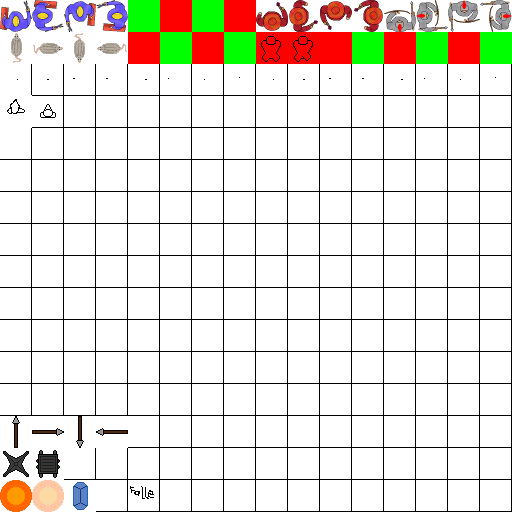
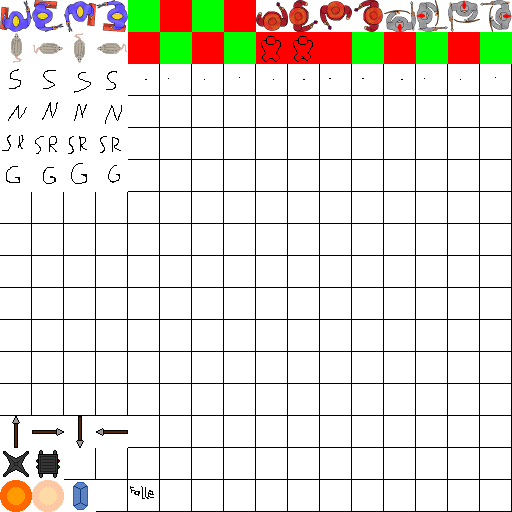
added waves

diff --git a/Game++ Tile/src/de/nerogar/game/Map.java b/Game++ Tile/src/de/nerogar/game/Map.java
@@ -11,7 +11,6 @@ import org.lwjgl.BufferUtils;
 import org.lwjgl.opengl.Display;
 
 import de.nerogar.game.entity.*;
-import de.nerogar.game.entity.enemy.*;
 import de.nerogar.game.entity.playerClass.PlayerClass;
 import de.nerogar.game.graphics.*;
 import de.nerogar.game.graphics.gui.GuiBank;
@@ -43,7 +42,7 @@ public class Map {
 	public static final Tile WALL_CROSS = new Tile(18, true);
 
 	public static final Tile[] TILES = new Tile[] { FLOOR, ROCK, TREE, TORCH, CHEST, OPEN_CHEST, DOOR, DOOR_OPEN, //
-			WALL_V, WALL_H, WALL_TR, WALL_TU, WALL_TD, WALL_TL, WALL_RU, WALL_RD, WALL_LU, WALL_LD, WALL_CROSS };
+	WALL_V, WALL_H, WALL_TR, WALL_TU, WALL_TD, WALL_TL, WALL_RU, WALL_RD, WALL_LU, WALL_LD, WALL_CROSS };
 
 	//texture
 	public static final float TILE_RENDER_SIZE = 64f;
@@ -57,10 +56,12 @@ public class Map {
 	private EntityPlayer player;
 	private int playerID = -1;
 	private Vector spawnLocation;
+	private Vector[] enemySpawnLocations;
 	private HashMap<Integer, Entity> entities;
 	private ArrayList<Entity> newEntities;
 	private boolean updating;
 	private float playTime;
+	private Wave wave;
 	private ArrayList<Light> lights;
 	private final int MAX_LIGHTS = 100;
 	private FloatBuffer lightBufferX;
@@ -90,6 +91,7 @@ public class Map {
 		initShader();
 		entities = new HashMap<Integer, Entity>();
 		newEntities = new ArrayList<Entity>();
+		wave = new Wave(this);
 	}
 
 	private void initShader() {
@@ -164,6 +166,8 @@ public class Map {
 				entity.update(time);
 			}
 			updating = false;
+
+			wave.update(time);
 
 			for (Client client : Game.game.server.getClients()) {
 				ArrayList<Packet> packets = client.getData(Packet.WORLD_CHANNEL);
@@ -374,17 +378,18 @@ public class Map {
 		return null;
 	}
 
-	public void load(int[] tileIDs, int size, Vector spawnLocation) {
+	public void load(int[] tileIDs, int size, Vector spawnLocation, Vector[] enemySpawnLocations) {
 		this.tileIDs = tileIDs;
 		this.size = size;
 		this.spawnLocation = spawnLocation;
+		this.enemySpawnLocations = enemySpawnLocations;
 
 		Pathfinder.init(this);
 
 		for (int i = 0; i < 10; i++) {
 			//spawnEntity(new EnemySkeleton(this, new Vector((float) (19f + Math.random() * 15f), (float) (19f + Math.random() * 15f))));
 			//spawnEntity(new EnemyRat(this, new Vector((float) (19f + Math.random() * 15f), (float) (19f + Math.random() * 15f))));
-			spawnEntity(new EnemyNekro(this, new Vector((float) (19f + Math.random() * 15f), (float) (19f + Math.random() * 15f))));
+			//spawnEntity(new EnemyNekro(this, new Vector((float) (19f + Math.random() * 15f), (float) (19f + Math.random() * 15f))));
 			//spawnEntity(new EnemyBigSkeleton(this, new Vector((float) (19f + Math.random() * 15f), (float) (19f + Math.random() * 15f))));
 		}
 	}
@@ -469,6 +474,10 @@ public class Map {
 
 	public Vector getSpawnLocation() {
 		return spawnLocation.clone();
+	}
+
+	public Vector[] getEnemySpawnLocations() {
+		return enemySpawnLocations;
 	}
 
 	public EntityPlayer getPlayer() {

diff --git a/Game++ Tile/src/de/nerogar/game/MapLoader.java b/Game++ Tile/src/de/nerogar/game/MapLoader.java
@@ -3,6 +3,7 @@ package de.nerogar.game;
 import java.awt.image.BufferedImage;
 import java.io.File;
 import java.io.IOException;
+import java.util.ArrayList;
 
 import javax.imageio.ImageIO;
 
@@ -76,6 +77,10 @@ public class MapLoader {
 		return (color & 0xffffff) == 0xf00000;
 	}
 
+	private static boolean isEnemySpawn(int color) {
+		return (color & 0xffffff) == 0xffff00;
+	}
+
 	public static Map loadMap(int worldType, String filename) {
 		BufferedImage image;
 		int[] pixels;
@@ -83,6 +88,7 @@ public class MapLoader {
 		int height;
 
 		Vector playerPos = new Vector();
+		ArrayList<Vector> enemySpawnLocationsList = new ArrayList<Vector>();
 
 		try {
 			image = ImageIO.read(new File("res/" + filename));
@@ -112,10 +118,15 @@ public class MapLoader {
 				playerPos.setX(i % mapSize).setY(i / mapSize);
 			} else if (isBone(pixels[i])) {
 				map.spawnEntity(new EntityBone(map, new Vector(i % mapSize, i / mapSize)));
+			} else if (isEnemySpawn(pixels[i])) {
+				enemySpawnLocationsList.add(new Vector(i % mapSize, i / mapSize));
 			}
 		}
 
-		map.load(tileIDs, mapSize, playerPos);
+		Vector[] enemySpawnLocations = new Vector[enemySpawnLocationsList.size()];
+		enemySpawnLocationsList.toArray(enemySpawnLocations);
+
+		map.load(tileIDs, mapSize, playerPos, enemySpawnLocations);
 		return map;
 	}
 }

diff --git a/Game++ Tile/src/de/nerogar/game/Wave.java b/Game++ Tile/src/de/nerogar/game/Wave.java
@@ -1,0 +1,50 @@
+package de.nerogar.game;
+
+import java.util.ArrayList;
+
+import de.nerogar.game.entity.Entity;
+import de.nerogar.game.entity.enemy.*;
+
+public class Wave {
+	public int wave;
+	private Map map;
+
+	public Wave(Map map) {
+		this.map = map;
+		wave = 0;
+	}
+
+	public void update(float time) {
+		if (waveComplete(map.getEntities())) {
+			wave++;
+			spawnEnemies();
+			System.out.println("wave " + wave + " started.");
+		}
+	}
+
+	private boolean waveComplete(ArrayList<Entity> entities) {
+		for (Entity entity : entities) {
+			if (entity.faction == Entity.FACTION_MOB) return false;
+		}
+		return true;
+	}
+
+	private Vector getRandomSpawnLocation() {
+		return map.getEnemySpawnLocations()[(int) (Math.random() * map.getEnemySpawnLocations().length)].clone();
+	}
+
+	private void spawnEnemies() {
+
+		for (int i = 0; i < 10; i++) {
+			map.spawnEntity(new EnemyNekro(map, getRandomSpawnLocation()));
+		}
+
+		for (int i = 0; i < 10; i++) {
+			map.spawnEntity(new EnemyBigSkeleton(map, getRandomSpawnLocation()));
+		}
+
+		for (int i = 0; i < 10; i++) {
+			map.spawnEntity(new EnemyGhost(map, getRandomSpawnLocation()));
+		}
+	}
+}

diff --git a/Game++ Tile/src/de/nerogar/game/Game.java b/Game++ Tile/src/de/nerogar/game/Game.java
@@ -36,8 +36,8 @@ public class Game {
 		renderEngine.init(WIDTH, HEIGHT);
 		bgMusic.setLooping(true);
 		bgMusic.play();
-		SoundCategory.MUSIC.setGain(1f);
-		SoundCategory.EFFECT.setGain(0.3f);
+		SoundCategory.MUSIC.setGain(0.3f);
+		SoundCategory.EFFECT.setGain(0.5f);
 
 	}
 
@@ -58,7 +58,7 @@ public class Game {
 		SoundManager.update();
 		InputHandler.update(this);
 		GuiBank.update();
-		
+
 		if (map != null && map.ready) {
 			map.update(1f / FRAMERATE);
 			float listenerX = (float) map.getOffsX() + 0.5f * WIDTH / Map.TILE_RENDER_SIZE;
@@ -69,7 +69,7 @@ public class Game {
 	}
 
 	public void closeMap() {
-		
+
 		map = null;
 	}
 
@@ -90,10 +90,8 @@ public class Game {
 	}
 
 	public void cleanup() {
-		if (server != null)
-			server.stopServer();
-		if (client != null)
-			client.stopClient();
+		if (server != null) server.stopServer();
+		if (client != null) client.stopClient();
 	}
 
 }

diff --git a/Game++ Tile/src/de/nerogar/game/entity/enemy/EnemyNekro.java b/Game++ Tile/src/de/nerogar/game/entity/enemy/EnemyNekro.java
@@ -19,7 +19,7 @@ public class EnemyNekro extends EntityEnemy {
 	public EnemyNekro(Map map, Vector pos) {
 		super(map, pos, new Vector(1.0f), 50, 1f);
 		moveSpeed = 3.0f;
-		textureID = 16;
+		textureID = 16 * 3;
 
 		targetBones = getTarget();
 	}
@@ -68,7 +68,7 @@ public class EnemyNekro extends EntityEnemy {
 		if (intersects(targetBones)) {
 			if (nextSpawn < 0) {
 				map.spawnEntity(new EnemySkeleton(map, targetBones.pos.clone()));
-				nextSpawn = (float) (10f * Math.random() + 5f);
+				nextSpawn = (float) (10f * Math.random() + 15f);
 			}
 			nextSpawn -= time;
 		}

diff --git a/Game++ Tile/src/de/nerogar/game/entity/enemy/EnemyGhost.java b/Game++ Tile/src/de/nerogar/game/entity/enemy/EnemyGhost.java
@@ -17,7 +17,7 @@ public class EnemyGhost extends EntityEnemy {
 	public EnemyGhost(Map map, Vector pos) {
 		super(map, pos, new Vector(1.0f), 10, 1f);
 		moveSpeed = 3.0f;
-		textureID = 32;
+		textureID = 16 * 5;
 		ignoreWalls = true;
 
 		fireballWeapon = new Fireball(this, 5, 3.0f);

diff --git a/Game++ Tile/src/de/nerogar/game/entity/enemy/EnemyBigSkeleton.java b/Game++ Tile/src/de/nerogar/game/entity/enemy/EnemyBigSkeleton.java
@@ -17,7 +17,7 @@ public class EnemyBigSkeleton extends EntityEnemy {
 	public EnemyBigSkeleton(Map map, Vector pos) {
 		super(map, pos, new Vector(1.5f), 100, 1f);
 		moveSpeed = 1.0f;
-		textureID = 16;
+		textureID = 16 * 4;
 	}
 
 	@Override

diff --git a/Game++ Tile/src/de/nerogar/game/entity/enemy/EnemySkeleton.java b/Game++ Tile/src/de/nerogar/game/entity/enemy/EnemySkeleton.java
@@ -17,7 +17,7 @@ public class EnemySkeleton extends EntityEnemy {
 	public EnemySkeleton(Map map, Vector pos) {
 		super(map, pos, new Vector(1.0f), 20, 1f);
 		moveSpeed = 2.0f;
-		textureID = 16;
+		textureID = 16 * 2;
 	}
 
 	@Override

diff --git a/Game++ Tile/src/de/nerogar/game/weapon/EnergyRestore.java b/Game++ Tile/src/de/nerogar/game/weapon/EnergyRestore.java
@@ -27,7 +27,7 @@ public class EnergyRestore extends Weapon {
 
 	@Override
 	public boolean canActivate() {
-		return owner.health != owner.maxEnergy;
+		return true;
 	}
 
 	@Override

diff --git a/Game++ Tile/src/de/nerogar/game/weapon/Heal.java b/Game++ Tile/src/de/nerogar/game/weapon/Heal.java
@@ -29,7 +29,7 @@ public class Heal extends Weapon {
 
 	@Override
 	public boolean canActivate() {
-		return owner.health != owner.maxEnergy;
+		return true;
 	}
 
 	@Override
